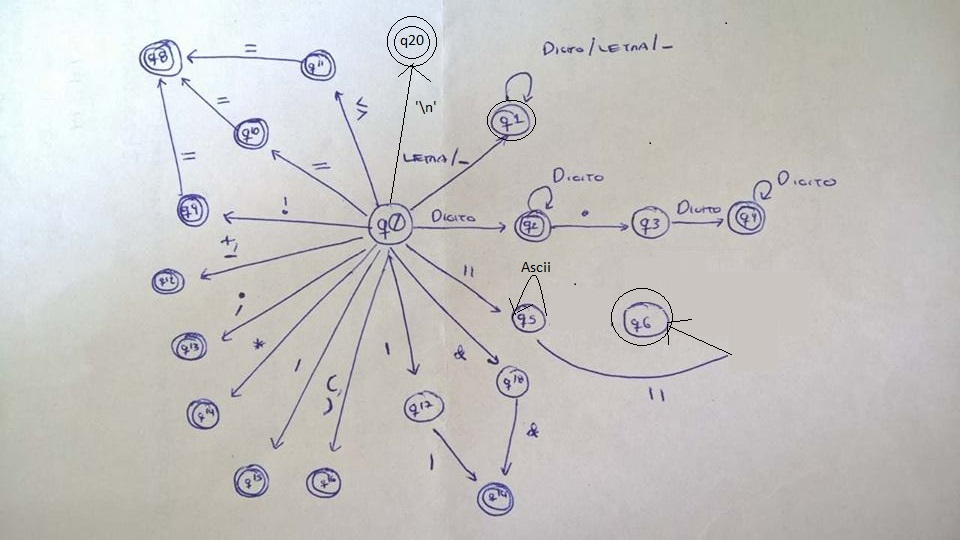
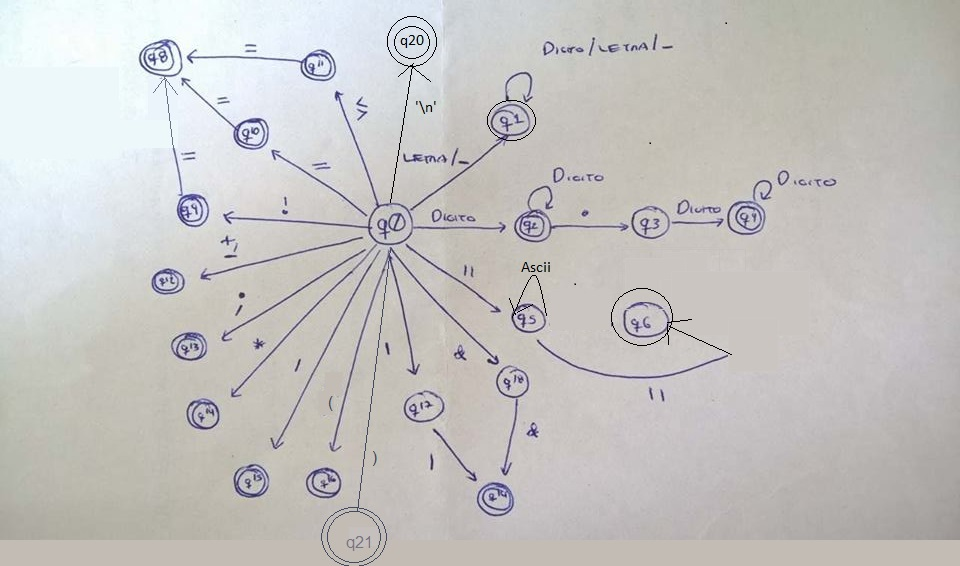
Clase Léxico:          -Corregido bug de EOF Diagrama de autómata:         -Actualizado

diff --git a/main.cpp b/main.cpp
@@ -8,13 +8,14 @@ int main()
     std::ofstream salida("salida.txt");
     Lexico lexico(archivo);
     string simbolo;
-    simbolo=lexico.sig_simbolo();
+    simbolo=(++lexico)->lexema();
     bool error_lexico =false;
-    while(!error_lexico&&simbolo[0]!=EOF)
+    while(!error_lexico&&lexico->tipo()!=Token::Tipo_Token::END)
     {
         error_lexico = lexico.is_error();
-        cout<<"("<<simbolo<<")"<<(error_lexico?"error!":"")<<"<"<< static_cast<int>((*lexico).tipo())<<">"<<endl;
-        simbolo=lexico.sig_simbolo();
+        cout<<"("<<simbolo<<")"<<(error_lexico?"error!":"")
+            <<"<"<< static_cast<int>(lexico->tipo())<<">"<<endl;
+        simbolo=(++lexico)->lexema();
     }
     salida<<(error_lexico?"0":"1");
 }

diff --git a/lexico.cpp b/lexico.cpp
@@ -152,8 +152,8 @@ std::string Lexico::sig_simbolo() {
                 }
             }
         }
+        token = Token(get_tipo(estado),simbolo);
     }
-    token = Token(get_tipo(estado),simbolo);
     return simbolo;
 }
 void Lexico::set_error(bool e)
